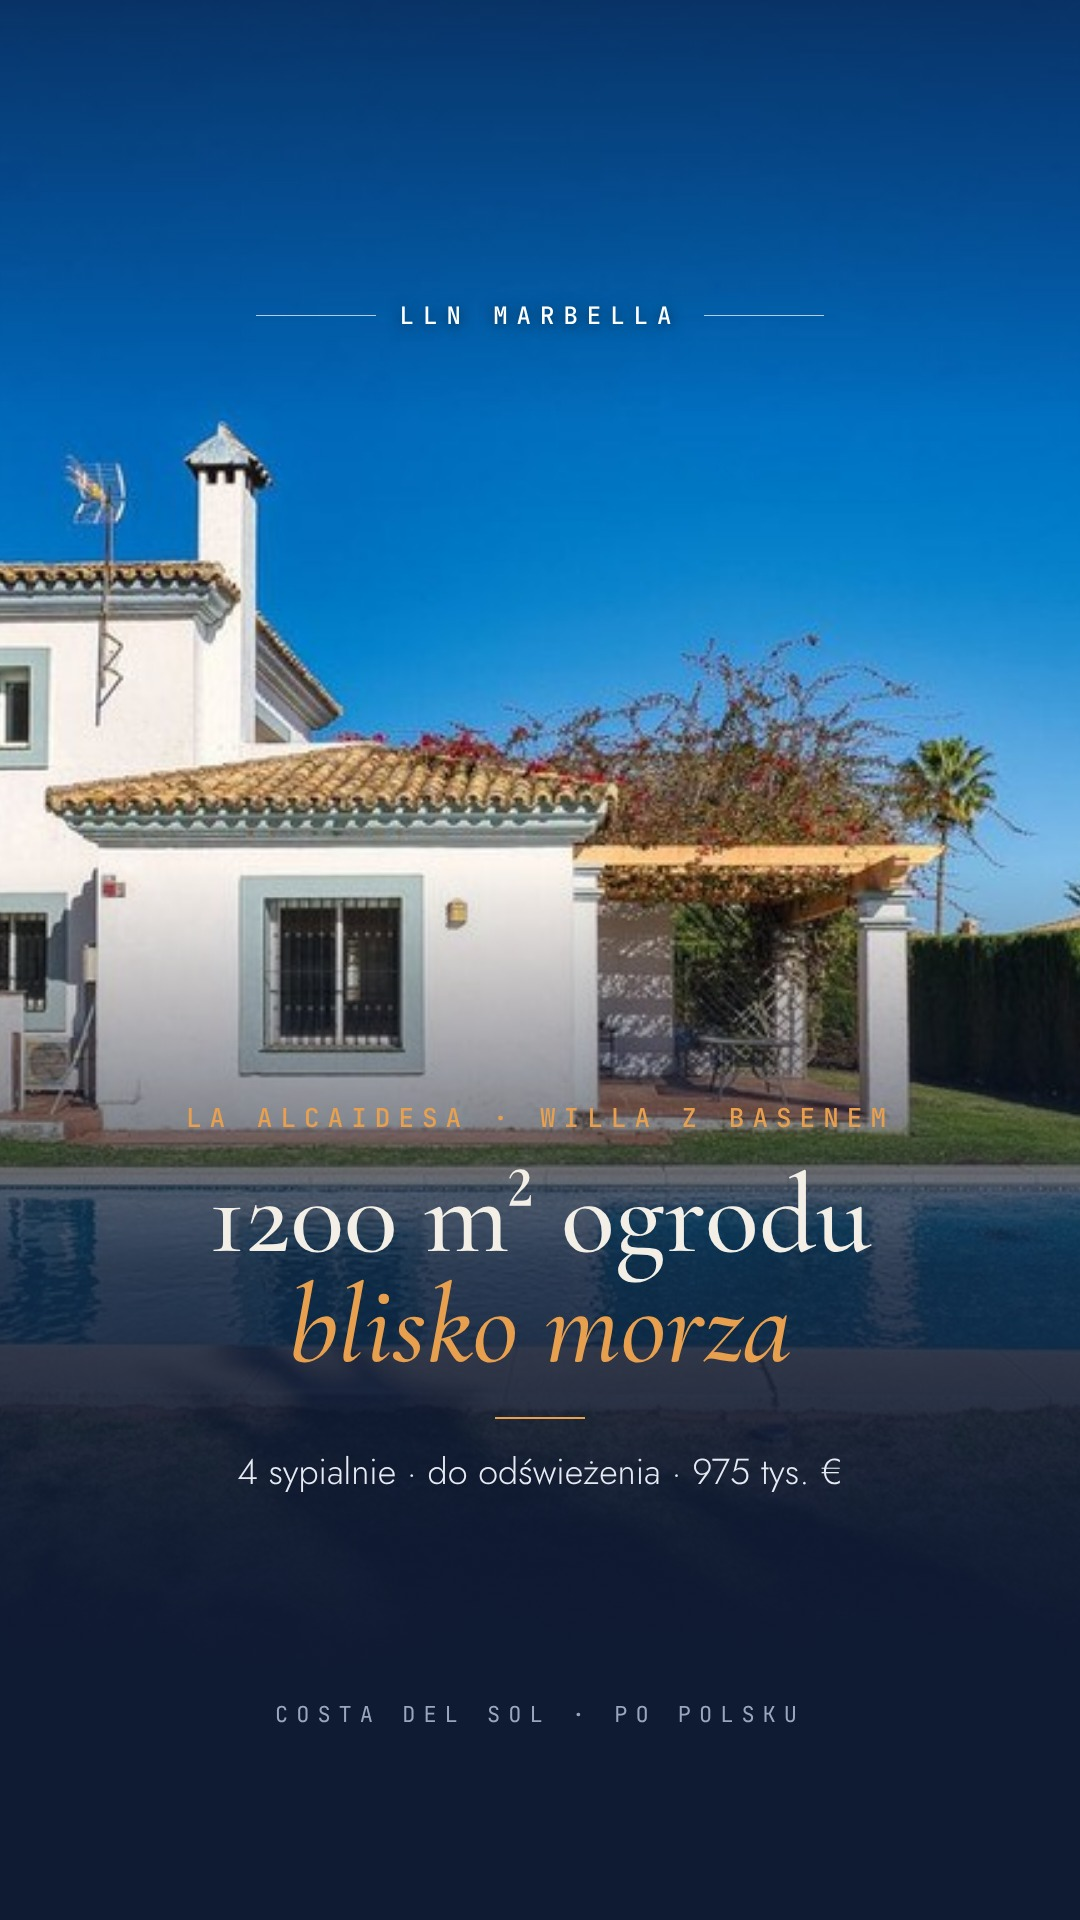
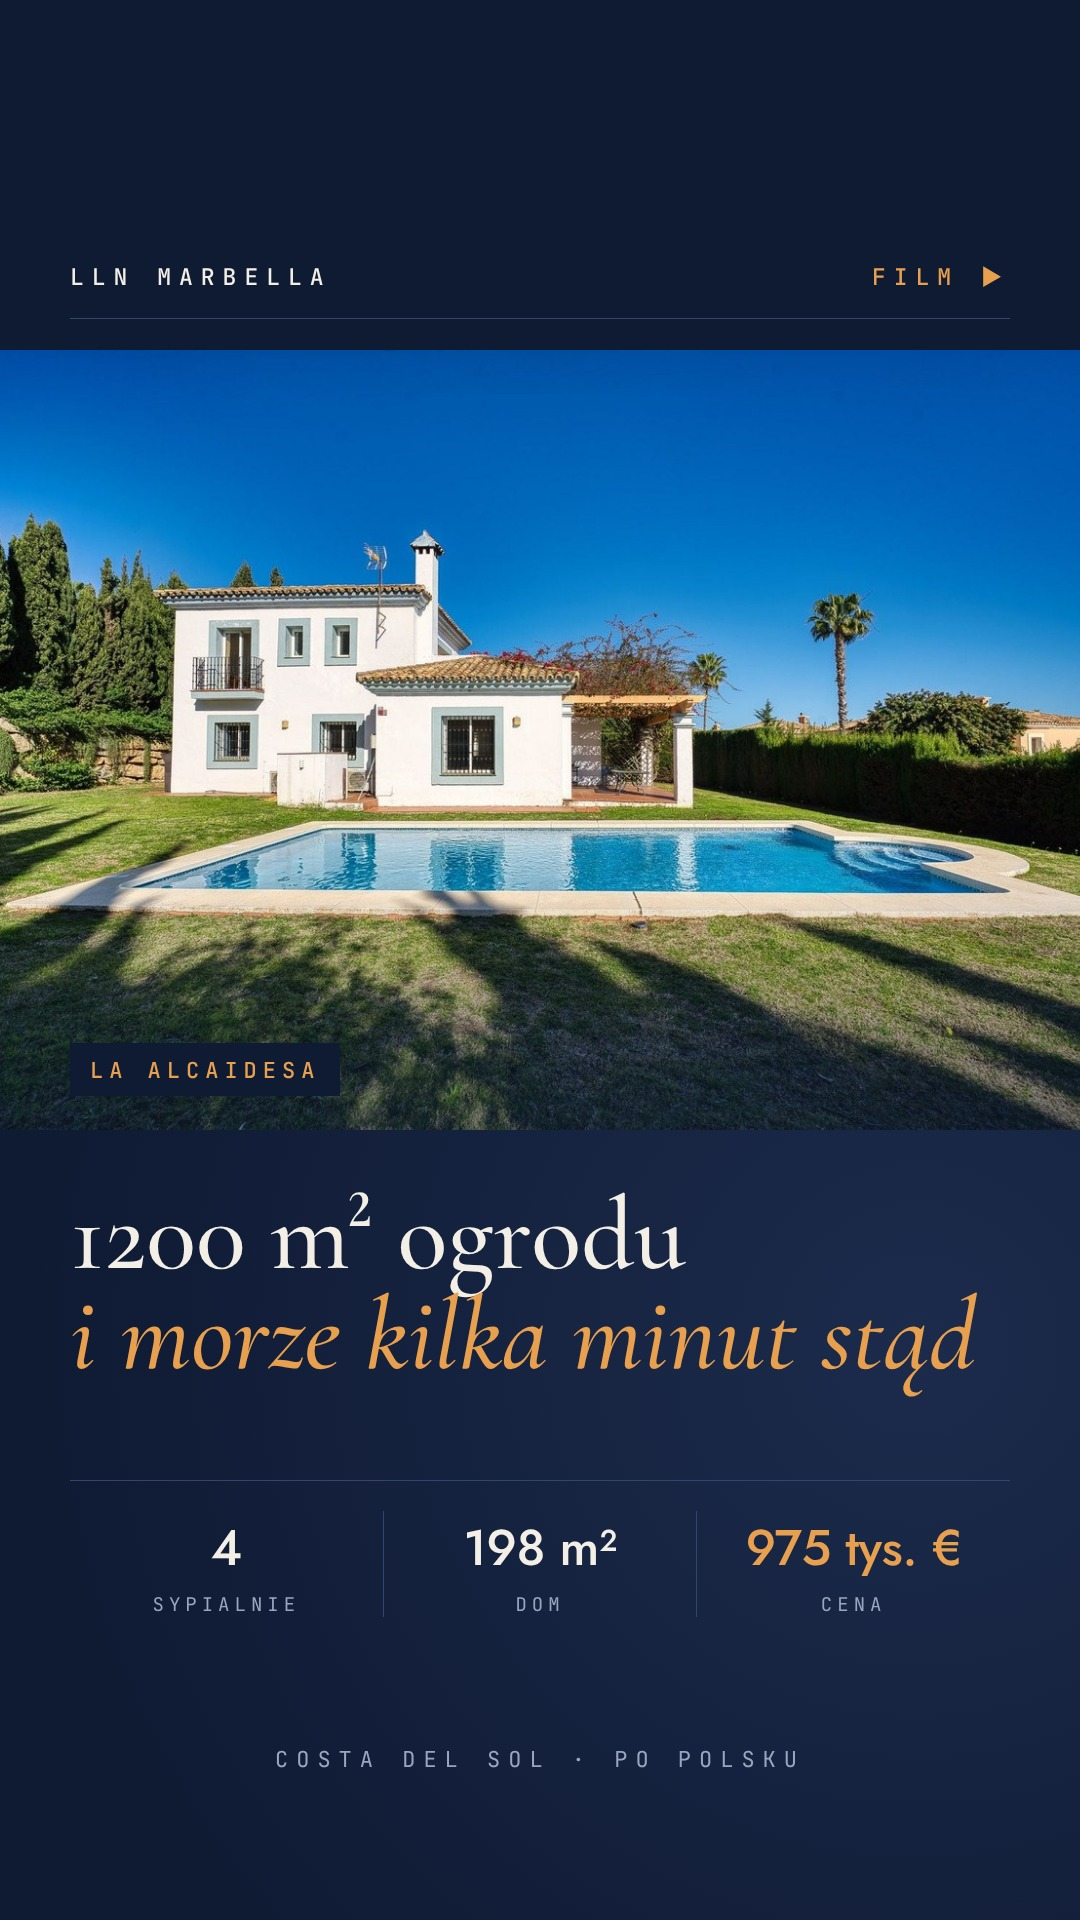
LLN 26.11: nowe okładki filmów (układ magazynowy v3)
Claude-Session: https://claude.ai/code/session_015HGgnZB7NxS5Kz6ejgrYfS

diff --git a/_lln/tools/okladka_v3.py b/_lln/tools/okladka_v3.py
@@ -1,0 +1,36 @@
+# Okładka v3 – układ magazynowy: zdjęcie w oknie (ostre, bez nadmiernego powiększenia), tytuł na granacie, pasek danych.
+# Cały tekst w strefie y 250–1650 (kadr siatki 3:4 = y 240–1680).
+import asyncio, json, sys
+from pathlib import Path
+F="".join(f'<link rel="stylesheet" href="file:///home/claude/tools/node_modules/@fontsource/{p}">' for p in ["cormorant-garamond/500.css","cormorant-garamond/500-italic.css","jost/300.css","jost/400.css","jost/500.css","jetbrains-mono/400.css","jetbrains-mono/500.css"])
+D='<span style="font-family:Cormorant Garamond;font-style:normal">–</span>'
+N="#0f1a33"; A="#e8a04e"
+def html(c):
+    chips="".join(f'<div style="flex:1;text-align:center;{"border-left:1px solid #33456d;" if i else ""}"><div style="font:500 50px Jost;color:{A if i==len(c["chips"])-1 else "#f3efe6"};letter-spacing:-.5px">{v}</div><div style="font:400 19px JetBrains Mono;letter-spacing:5px;color:#9aa6bf;margin-top:8px">{l}</div></div>' for i,(v,l) in enumerate(c["chips"]))
+    return f'''<!doctype html><html><head><meta charset="utf-8">{F}<style>*{{margin:0;padding:0;box-sizing:border-box}}
+body{{width:1080px;height:1920px;background:{N};color:#f3efe6;position:relative;overflow:hidden;font-family:Jost}}
+em{{font-style:italic;color:{A}}}</style></head><body>
+<div style="position:absolute;inset:0;background:radial-gradient(circle at 85% 70%,#1c2b4c 0,{N} 55%)"></div>
+<div style="position:absolute;left:70px;right:70px;top:262px;display:flex;justify-content:space-between;align-items:center;font:500 23px 'JetBrains Mono';letter-spacing:8px">
+<span>LLN&nbsp;MARBELLA</span><span style="color:{A}">{c.get("badge","FILM ▶")}</span></div>
+<div style="position:absolute;left:70px;right:70px;top:318px;height:1px;background:#33456d"></div>
+<div style="position:absolute;left:0;right:0;top:350px;height:{c.get("ph",780)}px;overflow:hidden">
+<div style="position:absolute;inset:0;background:url('file://{c["photo"]}') {c.get("pos","50% 50%")}/cover"></div>
+<div style="position:absolute;inset:0;background:linear-gradient(180deg,rgba(15,26,51,0) 70%,rgba(15,26,51,.55) 100%)"></div>
+<div style="position:absolute;left:70px;bottom:34px;background:{N};padding:13px 20px 11px;font:500 22px 'JetBrains Mono';letter-spacing:6px;color:{A}">{c["kicker"]}</div></div>
+<div style="position:absolute;left:70px;right:70px;top:{350+c.get("ph",780)+56}px">
+<div style="font-family:'Cormorant Garamond';font-weight:500;font-size:{c.get("size",118)}px;line-height:.96">{c["t1"]}<br><em>{c["t2"]}</em></div></div>
+<div style="position:absolute;left:70px;right:70px;top:1480px;border-top:1px solid #33456d;padding-top:30px;display:flex">{chips}</div>
+<div style="position:absolute;left:0;right:0;top:1745px;text-align:center;font:400 22px 'JetBrains Mono';letter-spacing:8px;color:#9aa6bf">COSTA DEL SOL · PO POLSKU</div>
+</body></html>'''
+async def main():
+    from playwright.async_api import async_playwright
+    cs=json.load(open(sys.argv[1]))
+    async with async_playwright() as p:
+        b=await p.chromium.launch(executable_path="/usr/bin/google-chrome",args=["--allow-file-access-from-files"]); pg=await b.new_page(viewport={"width":1080,"height":1920})
+        for c in cs:
+            f=Path(c["out"]).with_suffix(".html"); f.write_text(html(c),encoding="utf-8")
+            await pg.goto("file://"+str(f.resolve())); await pg.evaluate("document.fonts.ready"); await pg.wait_for_timeout(300)
+            await pg.screenshot(path=c["out"],type="jpeg",quality=92)
+        await b.close()
+asyncio.run(main())
